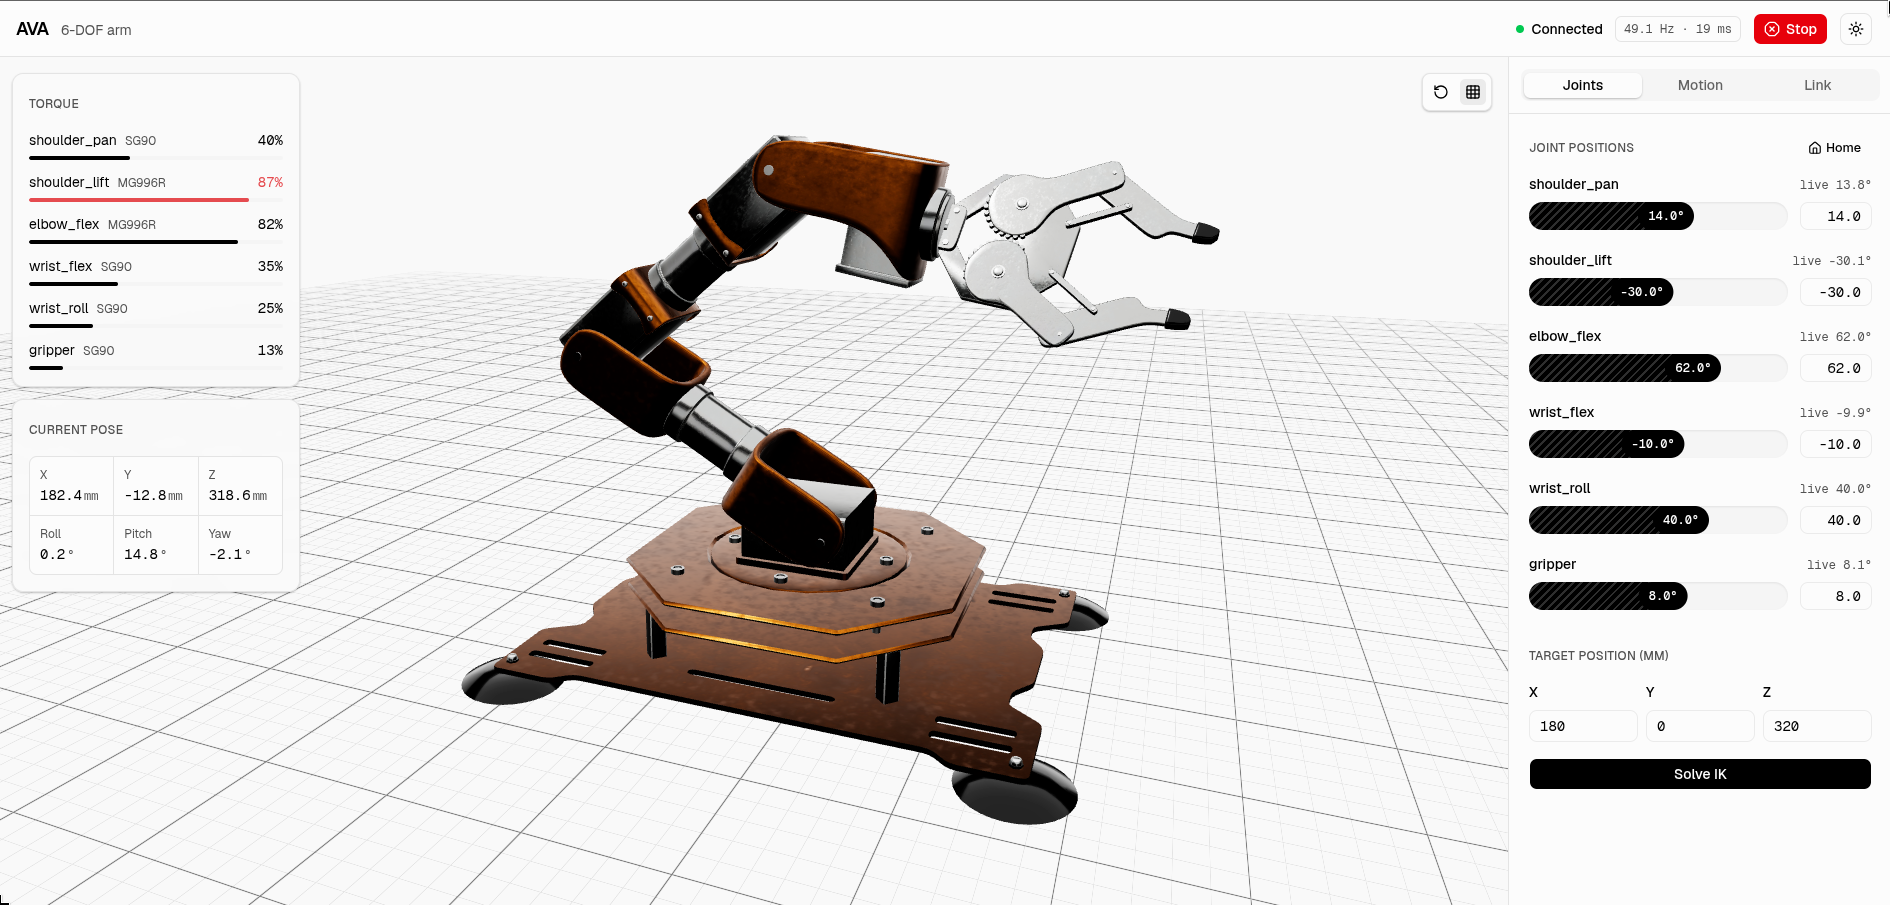
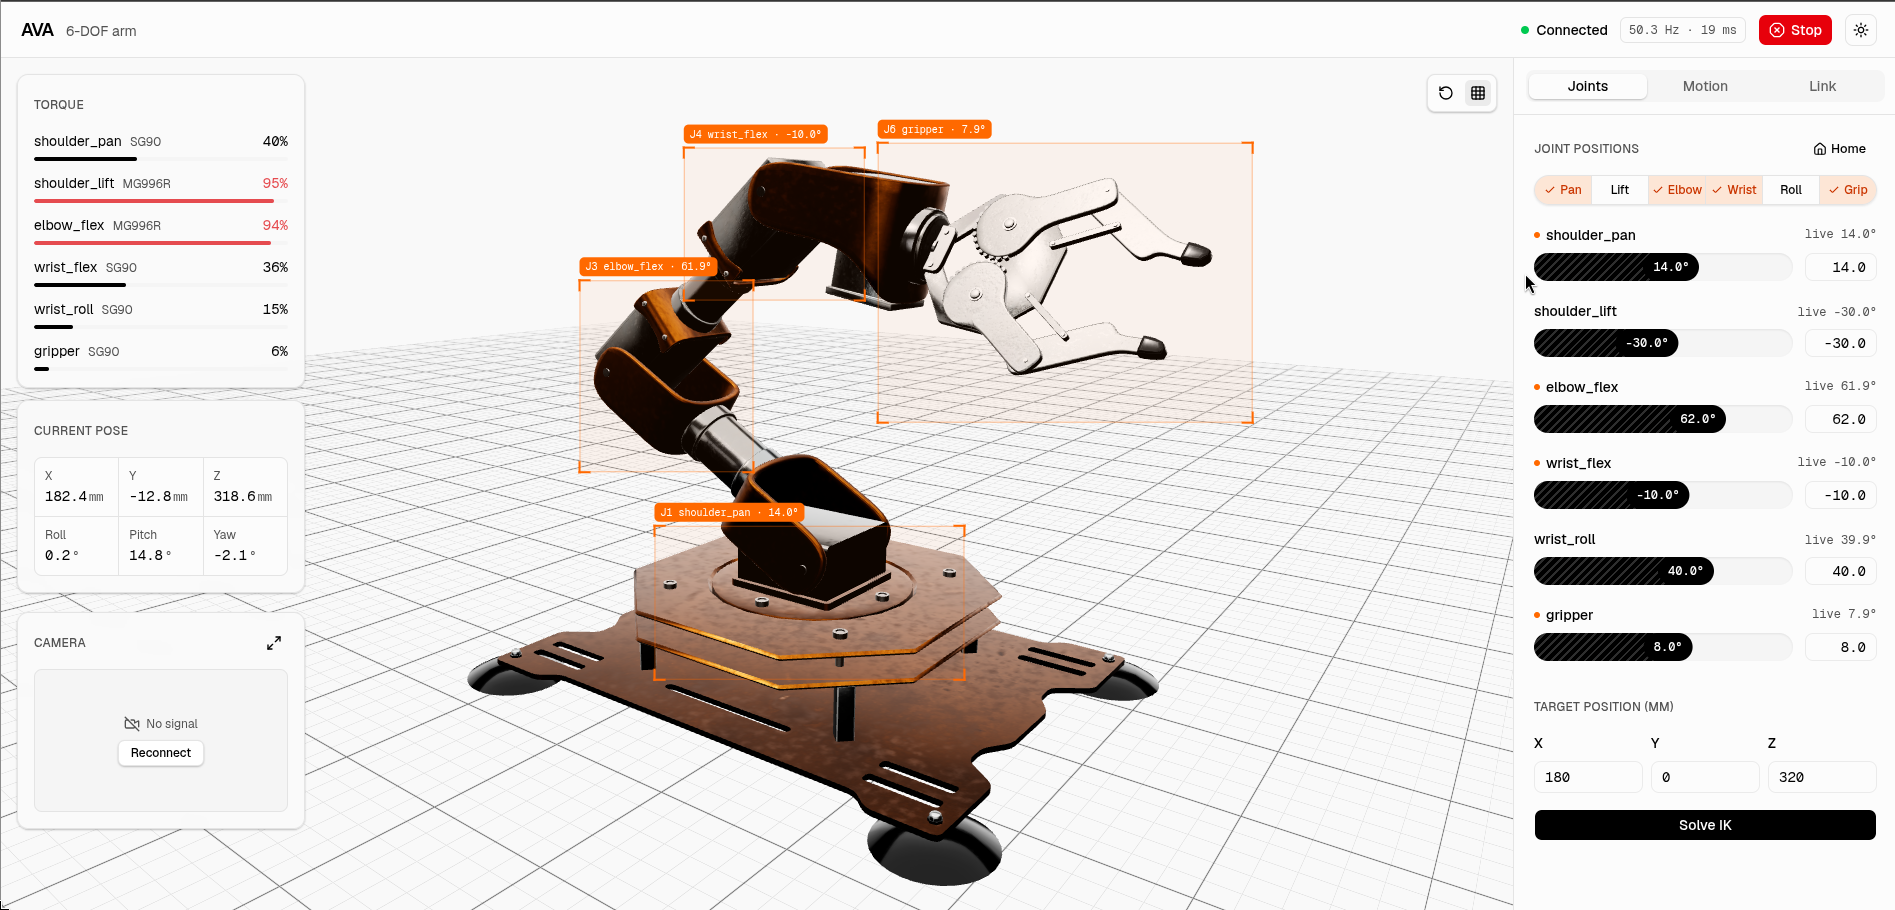
added mock camera view and active joint focus

diff --git a/src/App.tsx b/src/App.tsx
@@ -1,5 +1,5 @@
-import { lazy, Suspense, useState } from "react"
-import { Home, OctagonX } from "lucide-react"
+import { lazy, Suspense, useEffect, useState } from "react"
+import { Check, Home, Maximize2, Minimize2, OctagonX, VideoOff } from "lucide-react"
 import { useMockRobot, names, type RobotState } from "@/lib/mock-robot"
 import { Button } from "@/components/ui/button"
 import { Input } from "@/components/ui/input"
@@ -115,21 +115,117 @@ function PoseCard() {
   )
 }
 
-function Viewport({ robot }: { robot: RobotState }) {
+// Click-to-expand preview (like picture-in-picture): the tile grows in place, Esc or a second click collapses it.
+// The expanded card floats over the 3D view (anchored bottom-left of its slot), so it never shifts layout or scrolls.
+// Pass `src` (e.g. an MJPEG stream URL from web_video_server) once the Kinect feed exists.
+function CameraCard({ src, onReconnect }: { src?: string; onReconnect?: () => void }) {
+  const [expanded, setExpanded] = useState(false)
+  useEffect(() => {
+    if (!expanded) return
+    const onKey = (e: KeyboardEvent) => e.key === "Escape" && setExpanded(false)
+    window.addEventListener("keydown", onKey)
+    return () => window.removeEventListener("keydown", onKey)
+  }, [expanded])
+  const toggle = () => setExpanded(!expanded)
+  const label = expanded ? "Collapse camera" : "Expand camera"
+  return (
+    // Fixed-size slot keeps the collapsed footprint; the card inside is absolutely positioned.
+    <div className="relative h-56 w-72">
+      <div
+        className={cn(
+          "absolute bottom-0 left-0 z-10 rounded-xl border bg-background/90 p-4 shadow-sm backdrop-blur transition-[width] duration-300 ease-out",
+          expanded ? "w-[min(36rem,calc(100vw-2rem))] shadow-lg" : "w-72",
+        )}
+      >
+        <Heading
+          action={
+            <Button size="icon-sm" variant="ghost" aria-label={label} onClick={toggle}>
+              {expanded ? <Minimize2 /> : <Maximize2 />}
+            </Button>
+          }
+        >
+          Camera
+        </Heading>
+        <div className="relative aspect-video w-full overflow-hidden rounded-lg border bg-muted">
+          {src ? (
+            <button
+              type="button"
+              aria-expanded={expanded}
+              aria-label={label}
+              onClick={toggle}
+              className="group block size-full cursor-zoom-in aria-expanded:cursor-zoom-out"
+            >
+              <img src={src} alt="Kinect camera feed" className="size-full object-cover" />
+              <span className="absolute right-2 bottom-2 rounded-md bg-background/80 p-1 opacity-0 transition-opacity group-hover:opacity-100 group-focus-visible:opacity-100">
+                {expanded ? <Minimize2 className="size-3.5" /> : <Maximize2 className="size-3.5" />}
+              </span>
+            </button>
+          ) : (
+            <div className="flex size-full flex-col items-center justify-center gap-2 text-xs text-muted-foreground">
+              <span className="flex items-center gap-1.5"><VideoOff className="size-4" /> No signal</span>
+              <button
+                type="button"
+                onClick={onReconnect}
+                className="rounded-md border border-black/10 bg-white px-3 py-1 text-xs font-medium text-black shadow-sm hover:bg-neutral-100"
+              >
+                Reconnect
+              </button>
+            </div>
+          )}
+        </div>
+      </div>
+    </div>
+  )
+}
+
+function Viewport({ robot, joints }: { robot: RobotState; joints: number[] }) {
   const overlay = (
     <div className="pointer-events-none absolute top-4 left-4 flex flex-col gap-3 *:pointer-events-auto">
       <TorqueCard robot={robot} />
       <PoseCard />
+      <CameraCard />
     </div>
   )
   return (
-    <Suspense fallback={<section className="relative flex-1 bg-muted/40 max-lg:min-h-[70svh]">{overlay}</section>}>
-      <RobotViewport>{overlay}</RobotViewport>
+    <Suspense fallback={<section className="relative flex-1 overflow-hidden bg-muted/40 max-lg:min-h-[70svh]">{overlay}</section>}>
+      <RobotViewport
+        joints={joints}
+        jointLabels={names.map((name, i) => `J${i + 1} ${name} · ${robot.jointState.position[i].toFixed(1)}°`)}
+      >
+        {overlay}
+      </RobotViewport>
     </Suspense>
   )
 }
 
-function JointsTab({ robot }: { robot: RobotState }) {
+const pillLabels = ["Pan", "Lift", "Elbow", "Wrist", "Roll", "Grip"]
+
+// Segmented multi-select: joined pills, selected ones get a tint and a check.
+function JointPills({ joints, onJoints }: { joints: number[]; onJoints: (j: number[]) => void }) {
+  const toggle = (i: number) => onJoints(joints.includes(i) ? joints.filter((j) => j !== i) : [...joints, i].sort())
+  return (
+    <div role="group" aria-label="Highlight joints" className="mb-5 flex overflow-hidden rounded-full border divide-x shadow-xs">
+      {names.map((name, i) => {
+        const on = joints.includes(i)
+        return (
+          <button
+            key={name}
+            type="button"
+            title={`J${i + 1} ${name}`}
+            aria-pressed={on}
+            onClick={() => toggle(i)}
+            className="flex min-w-0 flex-1 items-center justify-center gap-1 py-1.5 text-xs font-medium transition-colors hover:bg-muted aria-pressed:bg-orange-500/15 aria-pressed:text-orange-700 aria-pressed:hover:bg-orange-500/20 dark:aria-pressed:text-orange-300"
+          >
+            {on && <Check className="size-3 shrink-0" />}
+            {pillLabels[i]}
+          </button>
+        )
+      })}
+    </div>
+  )
+}
+
+function JointsTab({ robot, selected, onJoints }: { robot: RobotState; selected: number[]; onJoints: (j: number[]) => void }) {
   const [joints, setJoints] = useState(() => robot.commanded)
   const setJoint = (i: number, v: number) => setJoints((cur) => cur.map((x, j) => (j === i ? v : x)))
   return (
@@ -137,11 +233,15 @@ function JointsTab({ robot }: { robot: RobotState }) {
       <Heading action={<Button size="sm" variant="ghost" onClick={() => setJoints(names.map(() => 0))}><Home /> Home</Button>}>
         Joint positions
       </Heading>
+      <JointPills joints={selected} onJoints={onJoints} />
       <div className="flex flex-col gap-5">
         {names.map((name, i) => (
           <div key={name} className="grid grid-cols-[1fr_4.5rem] items-center gap-x-3 gap-y-2">
             <div className="col-span-2 flex items-baseline justify-between text-sm">
-              <span className="font-medium">{name}</span>
+              <span className="flex items-center gap-1.5 font-medium">
+                {selected.includes(i) && <span className="size-1.5 rounded-full bg-orange-500" />}
+                {name}
+              </span>
               <span className="font-mono text-xs text-muted-foreground tabular-nums">
                 live {robot.jointState.position[i].toFixed(1)}°
               </span>
@@ -236,7 +336,7 @@ function ConnectionTab() {
   )
 }
 
-function Sidebar({ robot }: { robot: RobotState }) {
+function Sidebar({ robot, joints, onJoints }: { robot: RobotState; joints: number[]; onJoints: (j: number[]) => void }) {
   return (
     <aside className="w-96 shrink-0 overflow-y-auto border-l max-lg:w-full max-lg:overflow-visible max-lg:border-t max-lg:border-l-0">
       <Tabs defaultValue="joints" className="gap-0">
@@ -248,7 +348,7 @@ function Sidebar({ robot }: { robot: RobotState }) {
           </TabsList>
         </div>
         <TabsContent value="joints" className="flex flex-col gap-8 p-5">
-          <JointsTab robot={robot} />
+          <JointsTab robot={robot} selected={joints} onJoints={onJoints} />
           <TargetTab />
         </TabsContent>
         <TabsContent value="motion" className="p-5"><MotionTab /></TabsContent>
@@ -260,12 +360,13 @@ function Sidebar({ robot }: { robot: RobotState }) {
 
 export default function App() {
   const robot = useMockRobot()
+  const [joints, setJoints] = useState<number[]>([])
   return (
     <div className="flex h-svh flex-col">
       <Header robot={robot} />
       <main className="flex min-h-0 flex-1 max-lg:flex-col max-lg:overflow-y-auto">
-        <Viewport robot={robot} />
-        <Sidebar robot={robot} />
+        <Viewport robot={robot} joints={joints} />
+        <Sidebar robot={robot} joints={joints} onJoints={setJoints} />
       </main>
     </div>
   )

diff --git a/src/components/robot-viewport.tsx b/src/components/robot-viewport.tsx
@@ -1,7 +1,7 @@
 import { Component, Suspense, useMemo, useRef, useState } from "react"
-import { Canvas, useLoader } from "@react-three/fiber"
+import { Canvas, useFrame, useLoader, useThree } from "@react-three/fiber"
 import { Environment, Grid, Lightformer, OrbitControls, useProgress } from "@react-three/drei"
-import { Box3, Vector3 } from "three"
+import { Box3, Vector3, type Object3D } from "three"
 import { USDLoader } from "three/addons/loaders/USDLoader.js"
 import { Grid3X3, RotateCcw } from "lucide-react"
 import { Button } from "@/components/ui/button"
@@ -12,7 +12,70 @@ const MODEL_URL = `${import.meta.env.BASE_URL}models/demo-arm.usdz`
 // Models arrive in arbitrary units; normalise to this height and stand it on the grid.
 const MODEL_HEIGHT = 1
 
-function Model() {
+// The demo model is a flat, unrigged mesh export, so each joint is approximated by the meshes around it.
+const JOINT_PARTS = [
+  ["Cylinder_2", "Cylinder_001_3", "Cylinder_003_4"], // shoulder_pan: turntable
+  ["Cube_002_11", "Plane_003_14"], // shoulder_lift: base bracket
+  ["Cube_004_17", "Plane_004_15"], // elbow_flex
+  ["Cube_005_23", "Plane_006_24"], // wrist_flex
+  ["Cube_006_29", "Cylinder_015_30", "Cylinder_016_31"], // wrist_roll
+  ["Cylinder_017_35", "Cube_007_36", "Cylinder_018_37", "Plane_008_32", "Plane_009_33", "Plane_010_34", "Plane_011_38"], // gripper
+]
+
+type ModelRef = React.RefObject<Object3D | null>
+
+// Projects each selected joint's world-space bounds to screen space every frame and
+// positions its DOM frame directly (no React re-render per frame).
+function JointTracker({ model, joints, frames }: { model: ModelRef; joints: number[]; frames: React.RefObject<(HTMLDivElement | null)[]> }) {
+  const { camera, size } = useThree()
+  const box = useMemo(() => new Box3(), [])
+  const corner = useMemo(() => new Vector3(), [])
+  useFrame(() => {
+    JOINT_PARTS.forEach((names, j) => {
+      const el = frames.current[j]
+      if (!el) return
+      const parts = joints.includes(j) ? names.map((n) => model.current?.getObjectByName(n)).filter((o) => o !== undefined) : []
+      if (!parts.length) {
+        el.hidden = true
+        return
+      }
+      box.makeEmpty()
+      for (const o of parts) box.expandByObject(o)
+      let x0 = Infinity, y0 = Infinity, x1 = -Infinity, y1 = -Infinity
+      for (let i = 0; i < 8; i++) {
+        corner.set(i & 1 ? box.max.x : box.min.x, i & 2 ? box.max.y : box.min.y, i & 4 ? box.max.z : box.min.z).project(camera)
+        const x = ((corner.x + 1) / 2) * size.width
+        const y = ((1 - corner.y) / 2) * size.height
+        x0 = Math.min(x0, x); y0 = Math.min(y0, y); x1 = Math.max(x1, x); y1 = Math.max(y1, y)
+      }
+      const pad = 6
+      el.hidden = false
+      el.style.transform = `translate(${x0 - pad}px, ${y0 - pad}px)`
+      el.style.width = `${x1 - x0 + pad * 2}px`
+      el.style.height = `${y1 - y0 + pad * 2}px`
+    })
+  })
+  return null
+}
+
+// Computer-vision style detection box: corner brackets, faint outline, label tag.
+function JointFrame({ ref, label }: { ref: React.Ref<HTMLDivElement>; label: string }) {
+  const bracket = "absolute size-3 border-orange-500"
+  return (
+    <div ref={ref} hidden className="pointer-events-none absolute top-0 left-0">
+      <div className="absolute inset-0 border border-orange-500/40 bg-orange-500/5" />
+      <span className={`${bracket} -top-px -left-px border-t-2 border-l-2`} />
+      <span className={`${bracket} -top-px -right-px border-t-2 border-r-2`} />
+      <span className={`${bracket} -bottom-px -left-px border-b-2 border-l-2`} />
+      <span className={`${bracket} -right-px -bottom-px border-r-2 border-b-2`} />
+      <span className="absolute bottom-full left-0 mb-1 rounded-sm bg-orange-500 px-1.5 py-0.5 font-mono text-[10px] whitespace-nowrap text-white tabular-nums">
+        {label}
+      </span>
+    </div>
+  )
+}
+
+function Model({ modelRef }: { modelRef: ModelRef }) {
   const scene = useLoader(USDLoader, MODEL_URL)
   const { scale, offset } = useMemo(() => {
     const box = new Box3().setFromObject(scene)
@@ -22,7 +85,7 @@ function Model() {
     return { scale, offset: [-center.x * scale, -box.min.y * scale, -center.z * scale] as const }
   }, [scene])
   return (
-    <group position={offset} scale={scale}>
+    <group ref={modelRef} position={offset} scale={scale}>
       <primitive object={scene} />
     </group>
   )
@@ -42,14 +105,24 @@ class ModelBoundary extends Component<{ children: React.ReactNode; onError: () =
   }
 }
 
-export function RobotViewport({ children }: { children?: React.ReactNode }) {
+export function RobotViewport({
+  children,
+  joints = [],
+  jointLabels = [],
+}: {
+  children?: React.ReactNode
+  joints?: number[]
+  jointLabels?: string[]
+}) {
+  const model = useRef<Object3D>(null)
+  const frames = useRef<(HTMLDivElement | null)[]>([])
   const [grid, setGrid] = useState(true)
   const [failed, setFailed] = useState(false)
   const { active } = useProgress()
   const controls = useRef<React.ComponentRef<typeof OrbitControls>>(null)
 
   return (
-    <section aria-label="3D viewport" className="relative flex-1 bg-muted/40 max-lg:min-h-[70svh]">
+    <section aria-label="3D viewport" className="relative flex-1 overflow-hidden bg-muted/40 max-lg:min-h-[70svh]">
       <Canvas camera={{ position: [1.6, 1.2, 1.6], fov: 45, near: 0.01, far: 100 }} className="absolute! inset-0">
         <ambientLight intensity={0.8} />
         <directionalLight position={[3, 5, 2]} intensity={2} />
@@ -73,11 +146,16 @@ export function RobotViewport({ children }: { children?: React.ReactNode }) {
         )}
         <ModelBoundary onError={() => setFailed(true)}>
           <Suspense fallback={null}>
-            <Model />
+            <Model modelRef={model} />
           </Suspense>
         </ModelBoundary>
         <OrbitControls ref={controls} makeDefault target={[0, MODEL_HEIGHT / 2, 0]} minDistance={0.5} maxDistance={8} />
+        <JointTracker model={model} joints={joints} frames={frames} />
       </Canvas>
+
+      {JOINT_PARTS.map((_, j) => (
+        <JointFrame key={j} ref={(el) => { frames.current[j] = el }} label={jointLabels[j] ?? ""} />
+      ))}
 
       {(failed || active) && (
         <p className="pointer-events-none absolute inset-0 grid place-items-center text-sm text-muted-foreground">
